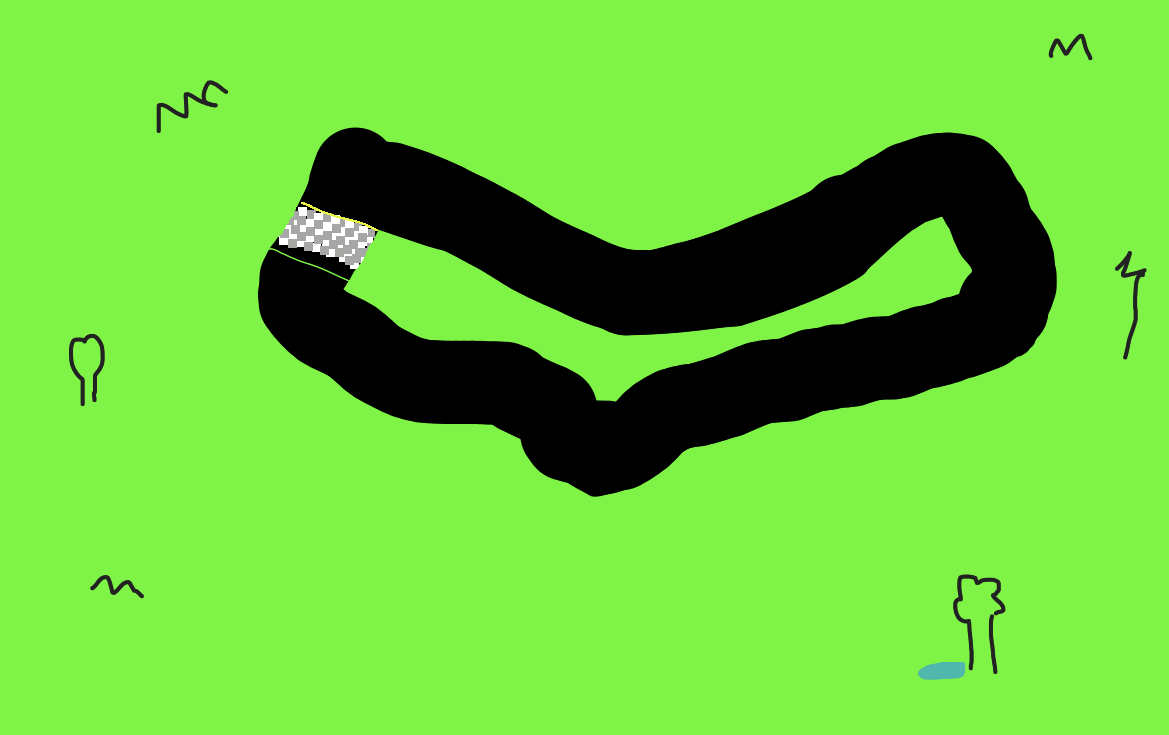
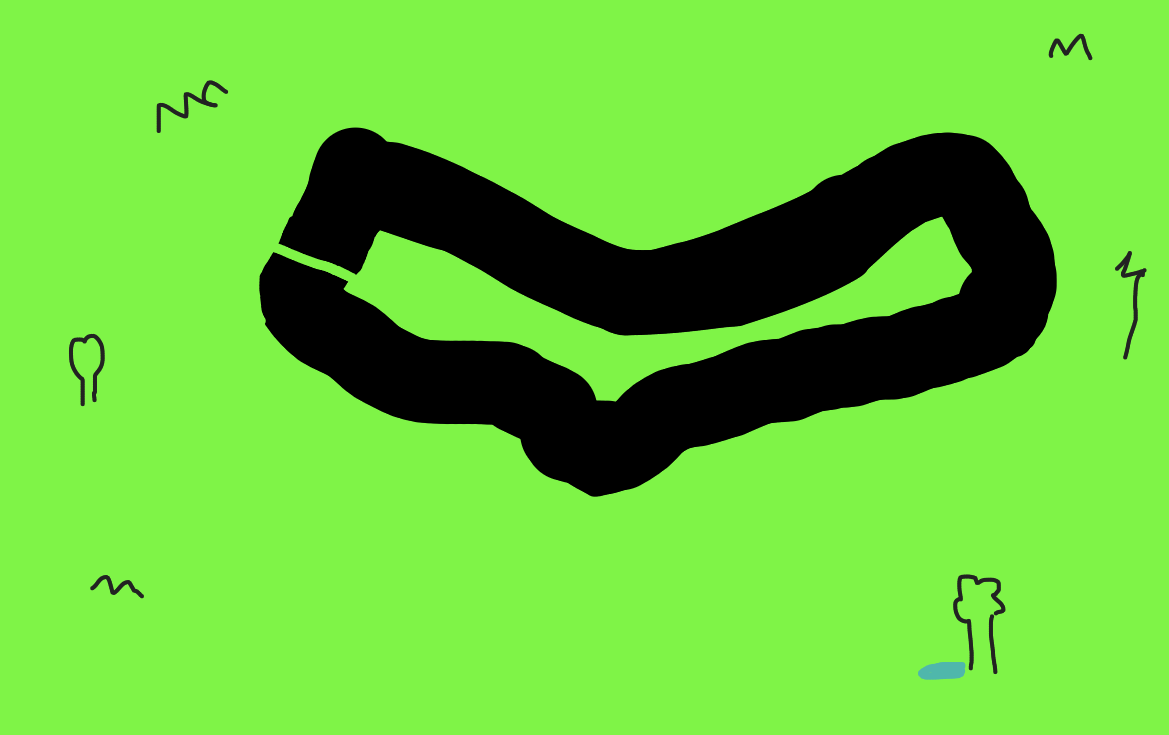
K idk if you actually read this but first off, we gotta fix this so once you collide, the game STAYS over. RN we have a thing where if you move away from where green is, you're back in the game. After fixing that issue we need to add a finish line png and create a mask, once we collidide the mouse a

Changed region(s): [[0.2156, 0.2694, 0.3388, 0.3891]]

diff --git a/Py Driver Real/PyDriver.py b/Py Driver Real/PyDriver.py
@@ -54,6 +54,12 @@ def main():
     door_rect.center = (290, 300)
     door_mask = pygame.mask.from_surface(door)
 
+    finish_line = pygame.image.load("finishline.png").convert_alpha()
+    finish_line = pygame.transform.smoothscale(finish_line, (100, 100))
+    finish_line_rect = finish_line.get_rect()
+    finish_line_rect.center = (325, 240)
+    finish_line_mask = pygame.mask.from_surface(finish_line)
+
     start_screen = pygame.image.load("startscreen.png")
     start_screen_size = start_screen.get_size()
     start_screen_rect = start_screen.get_rect()
@@ -139,16 +145,16 @@ def main():
                 screen.fill((0, 0, 0))  # This helps check if the image path is transparent
                 screen.blit(map, map_rect)
                 screen.blit(player, player_rect)
+                screen.blit(finish_line, finish_line_rect)
                 if pixel_collision(player_mask, player_rect, map_mask, map_rect):
                     print("colliding", frame_count)  # Don't leave this in the game
                     #LUKE FIX THIS PLEASE, TEST THIS OUT
                     is_game_over = True
                     if is_game_over == True:
                         screen.blit(game_over_screen, game_over_screen_rect)
-                #start working here, I need you to add a finish line maybe
-                # if pixel_collision(player_mask,player_rect, FINISHLINE, FINISHLINE_RECT)
-                #     print('congrats! You've passed the first level')
-                #     second_level = true:
+                if pixel_collision(player_mask, player_rect, finish_line_mask, finish_line_rect):
+                    print("congrats! You've passed the first level")
+                    second_level = True
                 #don't even touch this code till you've finished stuff above level 1
                 if second_level  == True:
                     screen.fill((0, 0, 0))  # This helps check if the image path is transparent
